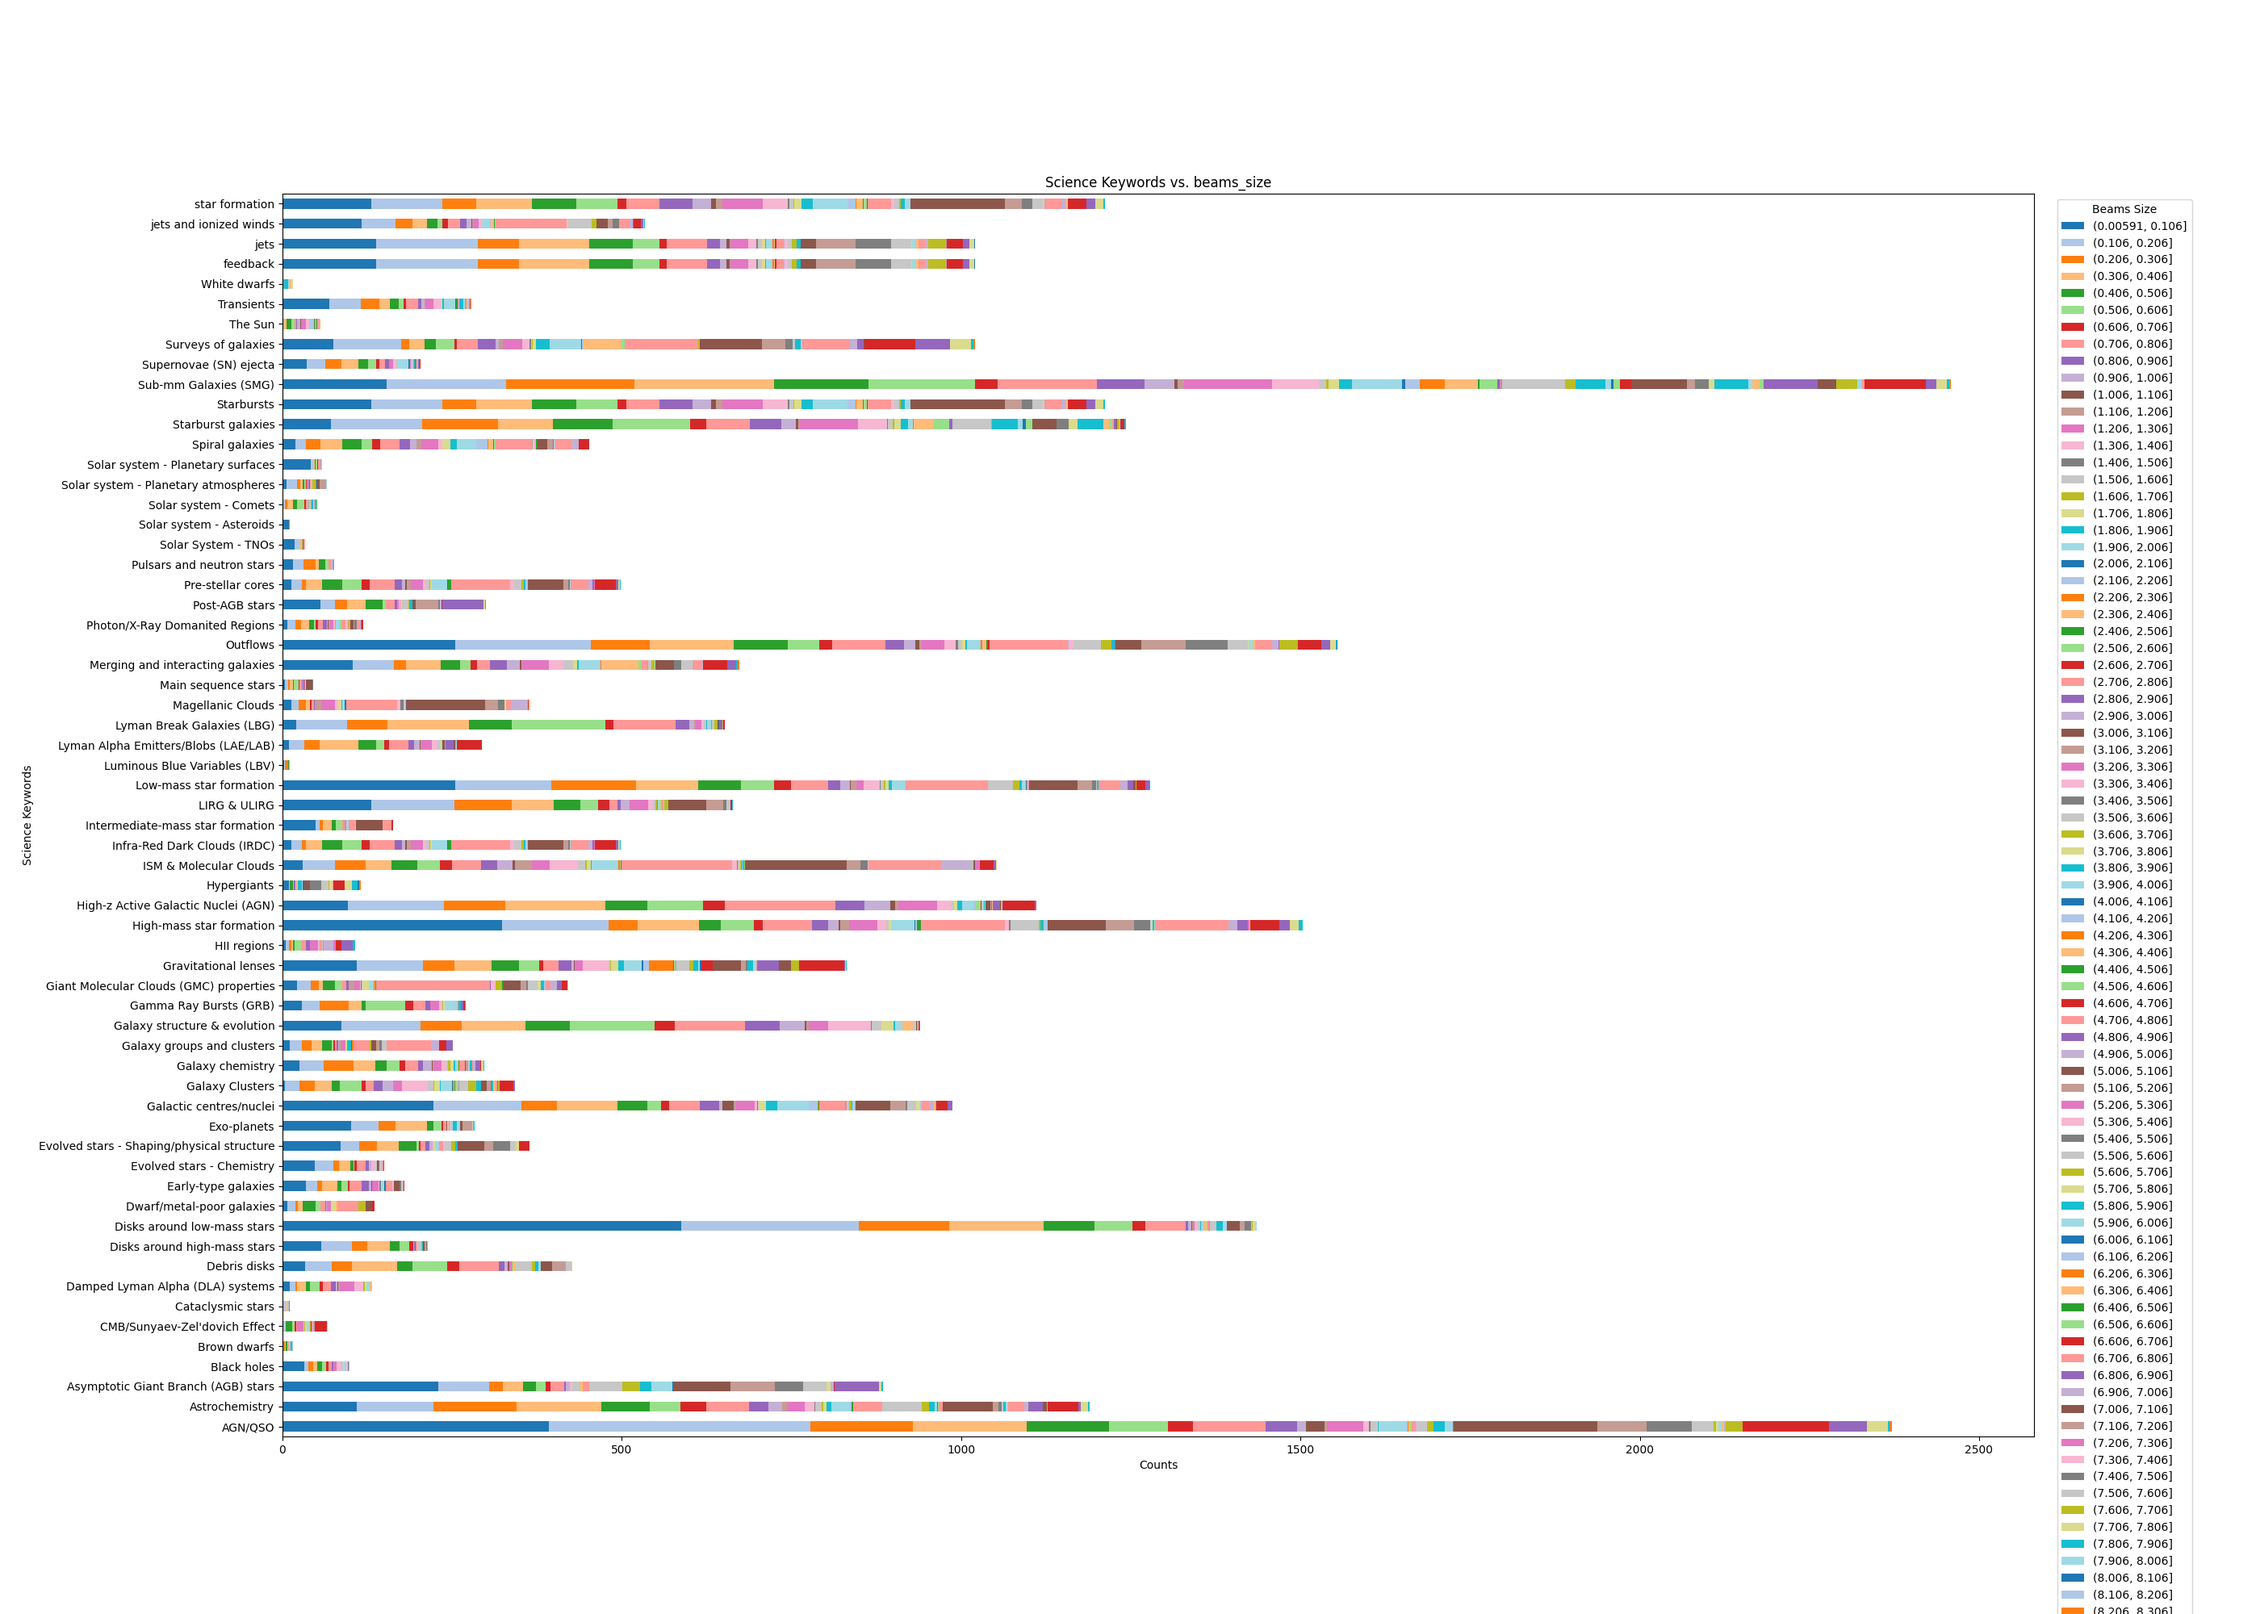
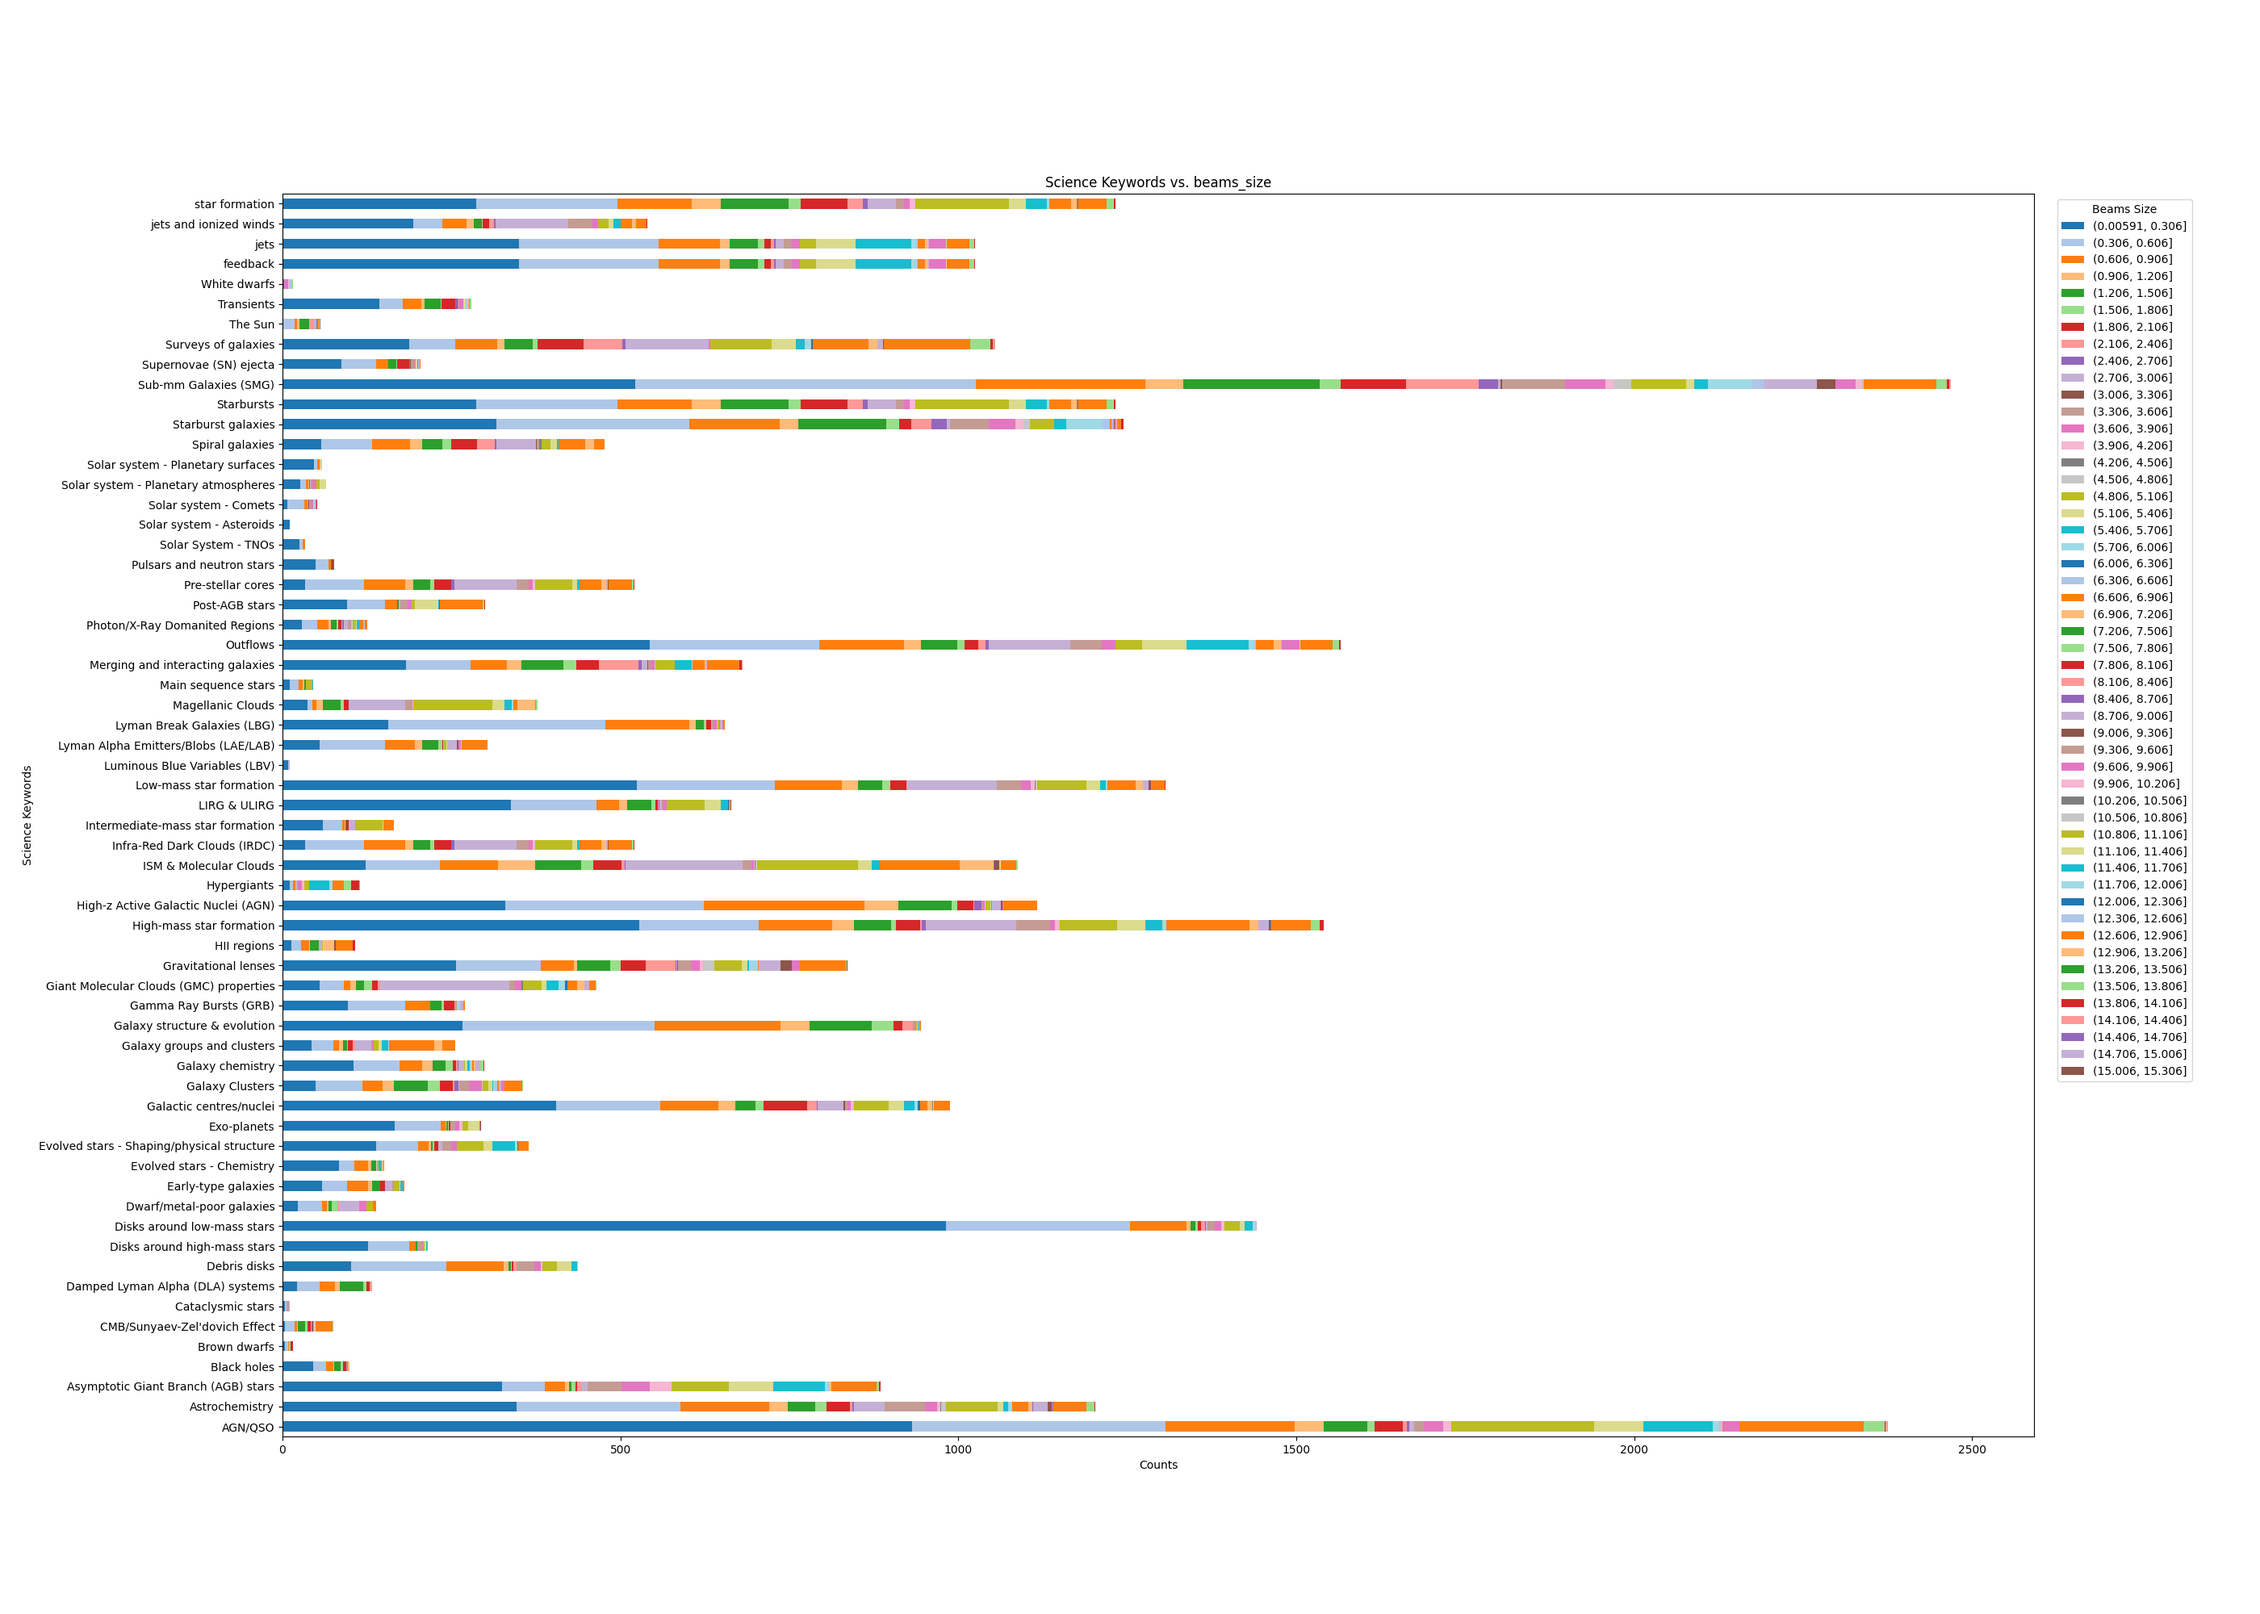
fix: update beam plots

diff --git a/utility/alma.py b/utility/alma.py
@@ -221,7 +221,7 @@ def get_max_baseline_from_antenna_array(antenna_array, master_path):
     obs_antennas = [antenna.split(':')[0] for antenna in obs_antennas]
     obs_coordinates = antenna_coordinates[antenna_coordinates['name'].isin(obs_antennas)].values
     max_baseline = 0
-    for i in tqdm(range(len(obs_coordinates)), total=len(obs_coordinates)):
+    for i in range(len(obs_coordinates)):
         name, x1, y1, z1 = obs_coordinates[i]
         for j in range(i + 1, len(obs_coordinates)):
             name, x2, y2, z2 = obs_coordinates[j]
@@ -572,7 +572,7 @@ def plot_science_keywords_distributions(service, master_path):
             db['max_baseline'] = db['antenna_arrays'].apply(lambda x: get_max_baseline_from_antenna_array(x, master_path))
             db['central_freq'] = db['band_list'].apply(lambda x: get_band_central_freq(int(x)))
             db['beam_size'] = db[['central_freq', 'max_baseline']].apply(lambda x: estimate_alma_beam_size(*x), axis=1)
-            beam_size_bins = np.arange(db['beam_size'].min(), db['beam_size'].max(), 0.1)  # 0.1 arcsec bins
+            beam_size_bins = np.arange(db['beam_size'].min(), db['beam_size'].max(), 0.3)  # 0.1 arcsec bins
             db['beam_bins'] = pd.cut(db['beam_size'], bins=beam_size_bins)
 
             db_sk_bs = db.groupby(['science_keyword', 'beam_bins']).size().unstack(fill_value=0)

diff --git a/main.py b/main.py
@@ -62,7 +62,7 @@ if __name__ == '__main__':
     main_path = os.getcwd()
     #output_dir = input("Insert absolute path of the output directory, if this is the first time running ALMASim this directory will be created: ")
     #output_dir = "/srv/Fast01/delliven/almasim-test-24-5-14"
-    output_dir = '/mnt/storage/astro/almasim-test-24-5-14'
+    output_dir = '/mnt/storage/astro/almasim-test-24-5-15'
     #tng_dir = input("Insert absolute path of the TNG directory, if this is the firt time running ALMASim this directory will be created: ")
     tng_dir = "/mnt/storage/astro/TNGData"
     project_name = input("Insert the name of the project: ")
